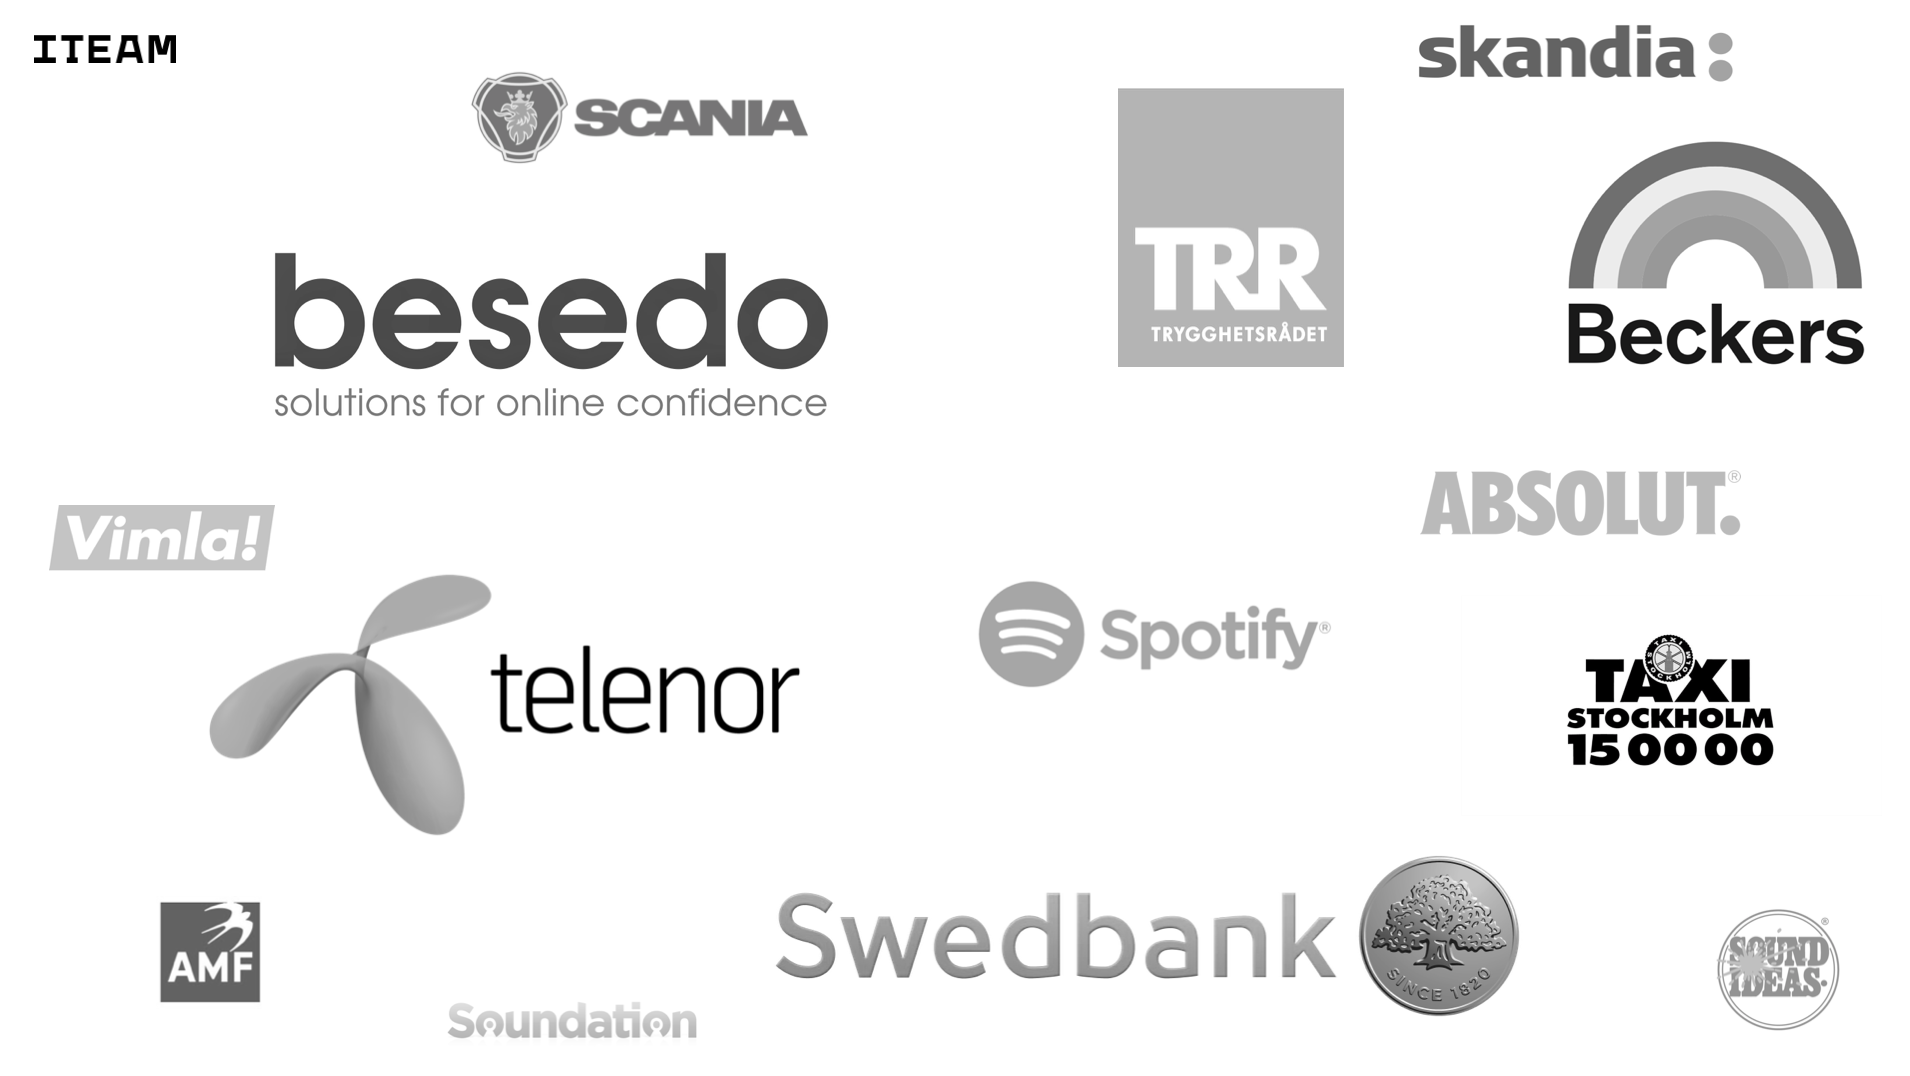
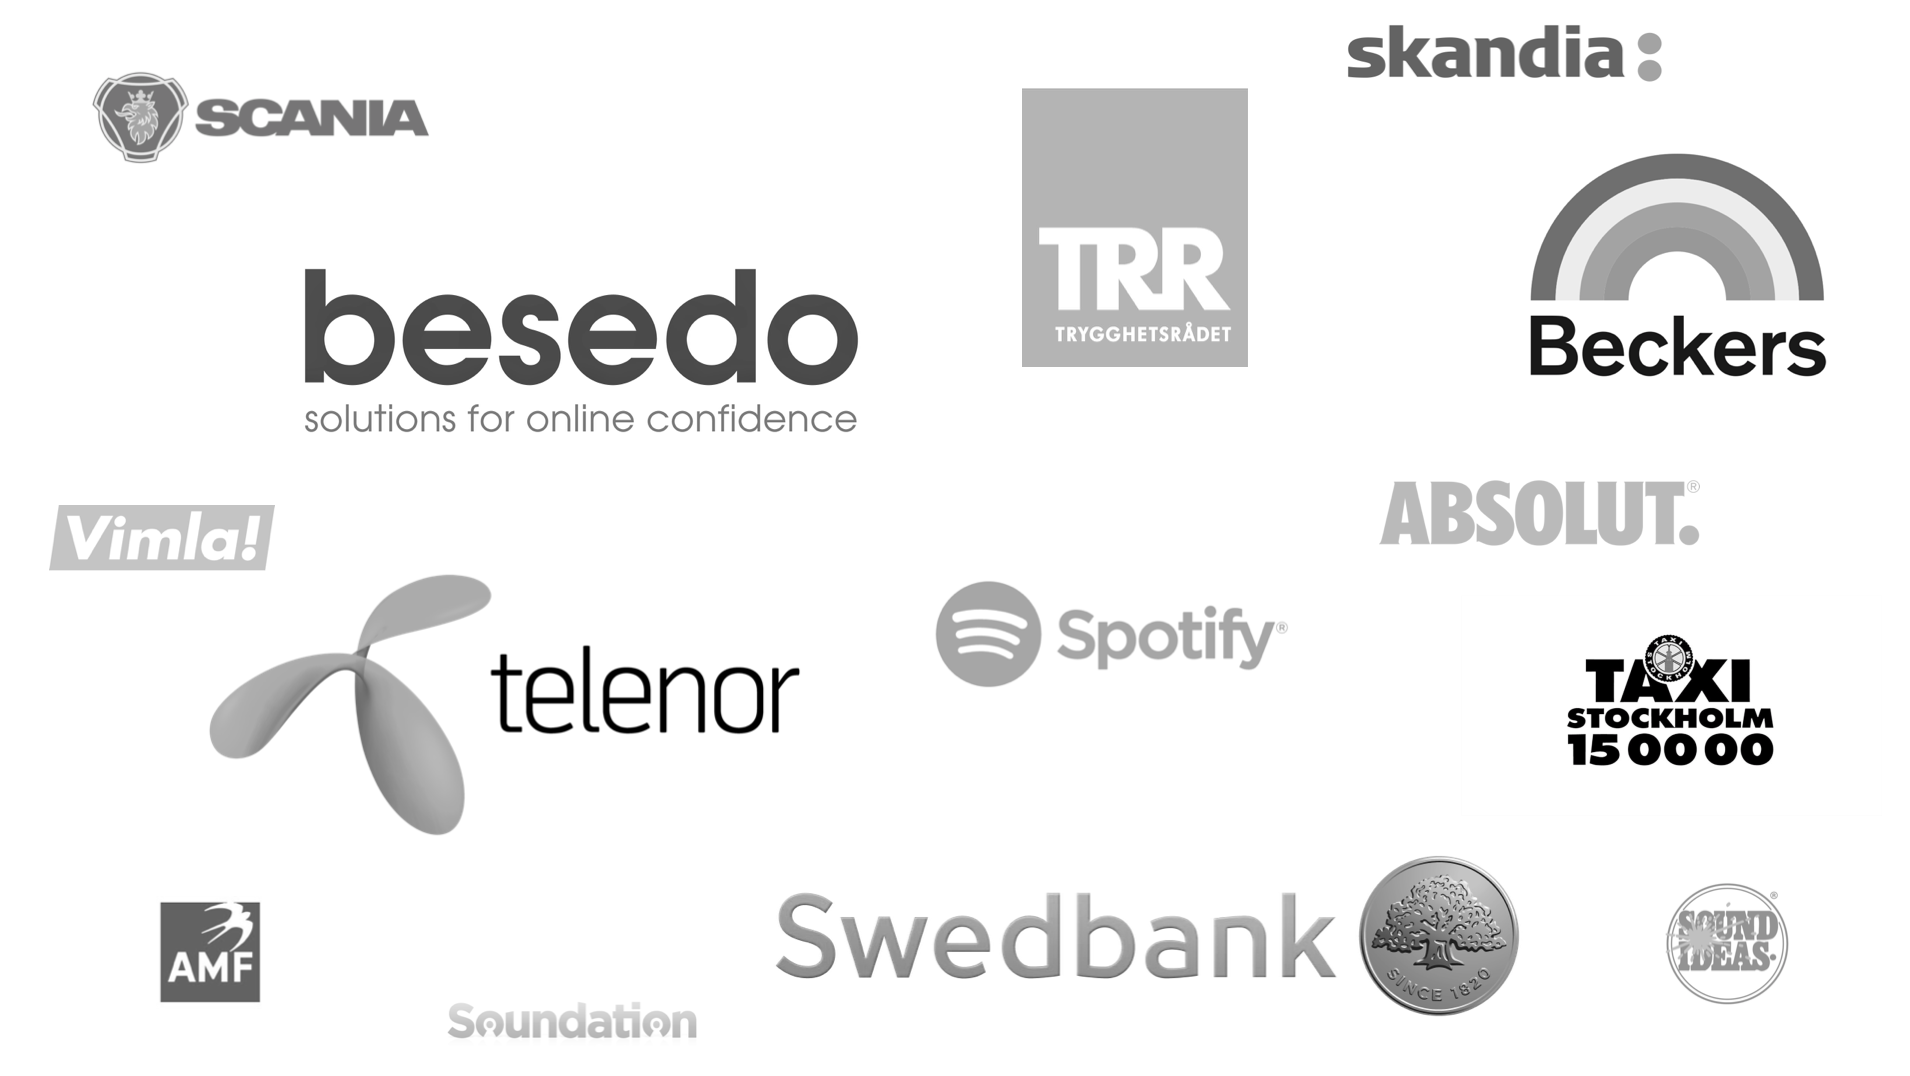
Removed unused pages, updated Cases, added new toppages and stuff
Did go through all sub-pages and removed unused markdown files

Case now looks more like other sub-pages

Re-added Process and Tools:

    - removed all copies of those texts
    - removed About, since it's just a merge between the re-added pages
    - modified sorting of menu-items

New layout for mobile-menu

Operations-page is now in english

  TODO: re-add the team viewer part

diff --git a/src/scss/partials/_selected-cases.scss b/src/scss/partials/_selected-cases.scss
@@ -2,14 +2,29 @@
 // Selected cases
 //
 //------------------------------------------------------------
-$bg-color: $color--spring-green;
+$bg-color: $color--pink;
 .selected-cases {
-  margin: 0 0 100px;
+  &.partial,
+  & {
+    /* margin: 0 0 100px; */
+    margin: 0;
+    padding: 5px;
+  }
+  > .grid {
+    &,
+    &-full {
+      padding: 0;
+      max-width: 100%;
+      width: 100%;
+      flex-flow: row;
+      justify-content: center;
+    }
+  }
 }
 .selected-case {
   background: $bg-color;
   padding: 0;
-  margin: 1%;
+  margin: 5px;
 
   &,
   & * {
@@ -19,11 +34,9 @@ $bg-color: $color--spring-green;
   &,
   &__element {
     position: relative;
-    align-items: flex-end;
-    display: flex;
-    flex-wrap: nowrap;
+    align-items: center;
+    display: inline-flex;
     overflow: hidden;
-    justify-content: flex-start;
   }
 
   &__element {
@@ -59,7 +72,7 @@ $bg-color: $color--spring-green;
 
   &__image {
     width: 100%;
-    max-width: 250px;
+    /* max-width: 250px; */
     height: auto;
     display: block;
     filter: grayscale(1) saturate(10000%);

diff --git a/src/scss/settings/_color-schemes.scss b/src/scss/settings/_color-schemes.scss
@@ -34,11 +34,11 @@
     &.background, .background {
       background-color: rgba($color, 0);
       color: $text-color;
-      /* transition: height 250ms ease-in-out, background-color 200ms ease-in-out; */
+      transition: height 250ms ease-in-out, background-color 200ms ease-in-out;
     }
     .nav-off-screen & {
       &.background, .background {
-        /* transition: height 250ms ease-in-out, background-color 200ms ease-in-out; */
+        transition: height 250ms ease-in-out, background-color 200ms ease-in-out;
         background-color: rgba($color, 0.95);
       }
     }

diff --git a/src/pages/process/blocks.md b/src/pages/process/blocks.md
@@ -1,7 +1,3 @@
-# Deliver early — evaluate and re-consider
-
-We enable you to deliver the stuff your clients crave. We can move fast since we embrace the fact that risk is opportunity in disguise. We deliver early MVP’s enabling an early means of getting feedback from the guys that matter the most — your target group. Our values help us to be open minded, to be ready to reconsider previous decisions, to dare choose new ways — and to revise priorities without letting prestige get in the way. This will let your business or organisation get ahead of your competition.
-
 ### Be market responsive
 
 Being market responsive is all about focusing your attention on prospects and customers. A key success factor is to be able to rapidly change your course. This means adjusting your business model to fulfil new customer needs, or adjusting your strategic heading to embrace new technologies. We will help you set up both management- and development models to do just that. The result is inevitable — you’ll score off-the-chart in consumer satisfaction. And hey, there's a nice effect in both revenue and profit margin growth as well. 
@@ -11,4 +7,5 @@ Being market responsive is all about focusing your attention on prospects and cu
 We make our team become your team. You will know exactly how things are proceeding — what value is delivered — and how the magic is made. We do test driven development which helps produce results faster and leaner. In turn it also makes it easy for us to visualize progress and pin-point upcoming challenges. Transparency at all times and in all phases — from needs identification, through team setup and into development, deployment and user feedback — is of key importance.
 
 ### SuperCharge™ yourself
+
 We provide up to three world class teams that can SuperCharge™ your existing business and IT-development team. This lets you move faster and develop those API:s, App-backends, real time data analysis tools, cloud infrastructure, AI/Deep Learning algorithms or web/hybrid services that bring unbeatable benefits to your customers.

diff --git a/src/pages/career/blocks.md b/src/pages/career/blocks.md
@@ -1,12 +1,12 @@
-#### Do you *want* to work with us?
+### Do you *want* to work with us?
 
 We understand that our employees are just here on loan. Working with passionate people means you have to constantly do what’s needed for them to achieve their goals. We have to deserve our employees every month, not just get them to sign the contract.
 
-#### Having fun, producing value, making something good
+### Having fun, producing value, doing something good
 
 These are our core values. And they are not just pretty words. We use them as a template for deciding whether an assignment is worth taking on. We work in a business capable of producing value on orders of magnitude. Life is too short to be scratching the surface, we want to dig.
 
-#### An inclusive, diverse environment
+### An inclusive, diverse environment
 
 We believe that diverse experiences and opposing views strengthen and evolve our capacity to solve problems. It also makes life at work more rewarding and fun. We want to maintain an environment where people who never fit in, people who always fit in and anyone in between, can work together and enjoy each other’s company. And we try to achieve it but demanding not consensus but respect.
 

diff --git a/src/pages/tools/blocks.md b/src/pages/tools/blocks.md
@@ -1,0 +1,7 @@
+### Build your own dream team
+
+In order to take your business through digital transformation your need to get in the game — with the right crew — at the right time. We’ll help you by building a team based on your current situation and challenges. What phase is your business going through? What is happening in the market place? What’s the competition doing? If you need to find out why change is happening, what the opportunities and strategic move opportunities are — we will help by setting up a Prime team for you. If your vision is clear, you can’t wait to get there we’ll set up an Evolve team to power you up. If you’ve got it all and need to run at pace with the competition we’ll set up a Sustain team to get you moving on and up.
+
+### Stakeholder deliverables
+
+Since we strongly focus on delivering client value — driven by the why and how — we always deliver for multiple stakeholders in your organisation. This in itself is concrete evidence of silo breaking and polymathing — key ingredients to disrupting oneself. 

diff --git a/src/pages/operations/blocks.md b/src/pages/operations/blocks.md
@@ -1,0 +1,11 @@
+### It’s about revenue
+
+User support should be about one thing and one thing only: maximizing productivity. That is why we build our support around the needs of your users, not around us. Enforcing a standard is no good if it doesn’t help the users, and we don’t need it — we can handle diversity.
+
+### It’s about efficiency
+
+We help you review your IT environment, giving you a comprehensive map of your hardware and security as well as your software and licenses. We lay the foundation for keeping the infrastructure up to date long term, and give you suggestions for needed changes now. These can be used by your current IT partner or by us to accelerate your business.
+
+### It’s about security
+
+We plan, build and maintain stable and secure infrastructures for your critical business needs. We are experienced in virtualization, fibre, redundant server and firewall solutions, and handling client computers at mass scale.

diff --git a/src/pages/process/main-block.md b/src/pages/process/main-block.md
@@ -1,0 +1,3 @@
+# Deliver early - evaluate and re-consider
+
+We enable you to deliver the stuff your clients crave. We can move fast since we embrace the fact that risk is opportunity in disguise. We deliver early MVP’s enabling an early means of getting feedback from the guys that matter the most — your target group. Our values help us to be open minded, to be ready to reconsider previous decisions, to dare choose new ways — and to revise priorities without letting prestige get in the way. This will let your business or organisation get ahead of your competition.

diff --git a/src/pages/operations/main-block.md b/src/pages/operations/main-block.md
@@ -1,3 +1,3 @@
-# Vi hjälper dig med din dator
+# Do you love your IT service partner?
 
-Ring [+46 826 70 90](callto:+46 826 70 90) och *välj 1* i telefonväxeln. Klicka därefter på följade länk: <a href="http://get.teamviewer.com/j8dvucq" target="_blank">ladda ner Teamviewer</a>
+If you do: congratulations. If you don’t: give us a call. The problem with most IT, both for user support, network and server setup and security management is that they focus on cost. Well — the simplest way to minimize cost is simply to get rid of all computers: BOOM — Zero cost!

diff --git a/src/pages/tools/main-block.md b/src/pages/tools/main-block.md
@@ -1,0 +1,3 @@
+# Wide knowledge, deep expertise
+
+We use mentorship, management methodology, programming skills and a culture of agility to the table in order to help you digitally transform your organisation. We are creators of things — whether it be MVPs, APIs, business intelligence tools, dashboards, responsive websites, apps or machine learning solutions.

diff --git a/src/pages/case/main-block.md b/src/pages/case/main-block.md
@@ -1,0 +1,3 @@
+# Examples of digital transformations
+
+We work with a couple of NDA-type projects which unfortunately means we can't talk about them, these are just a few of the examples of what we have done…
